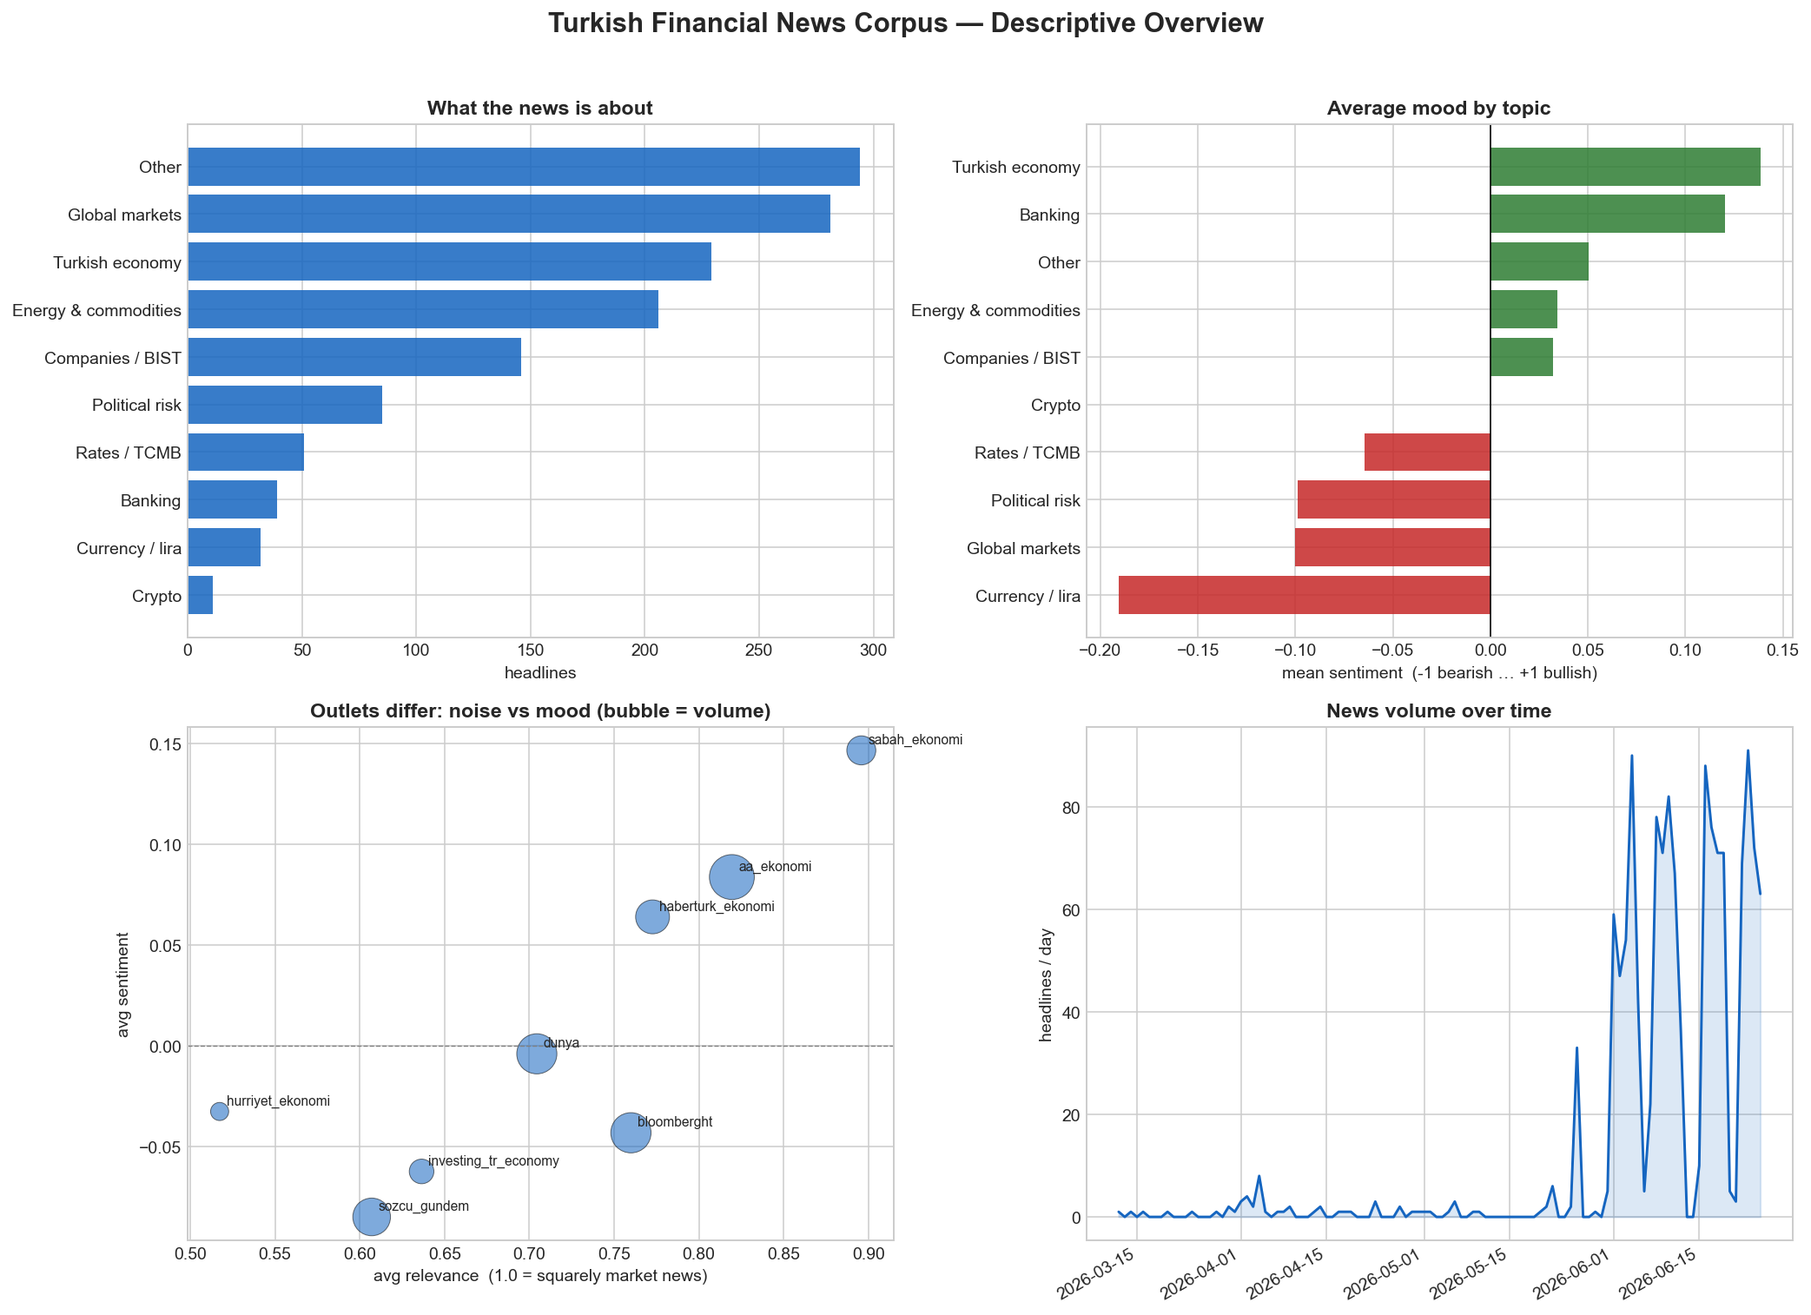
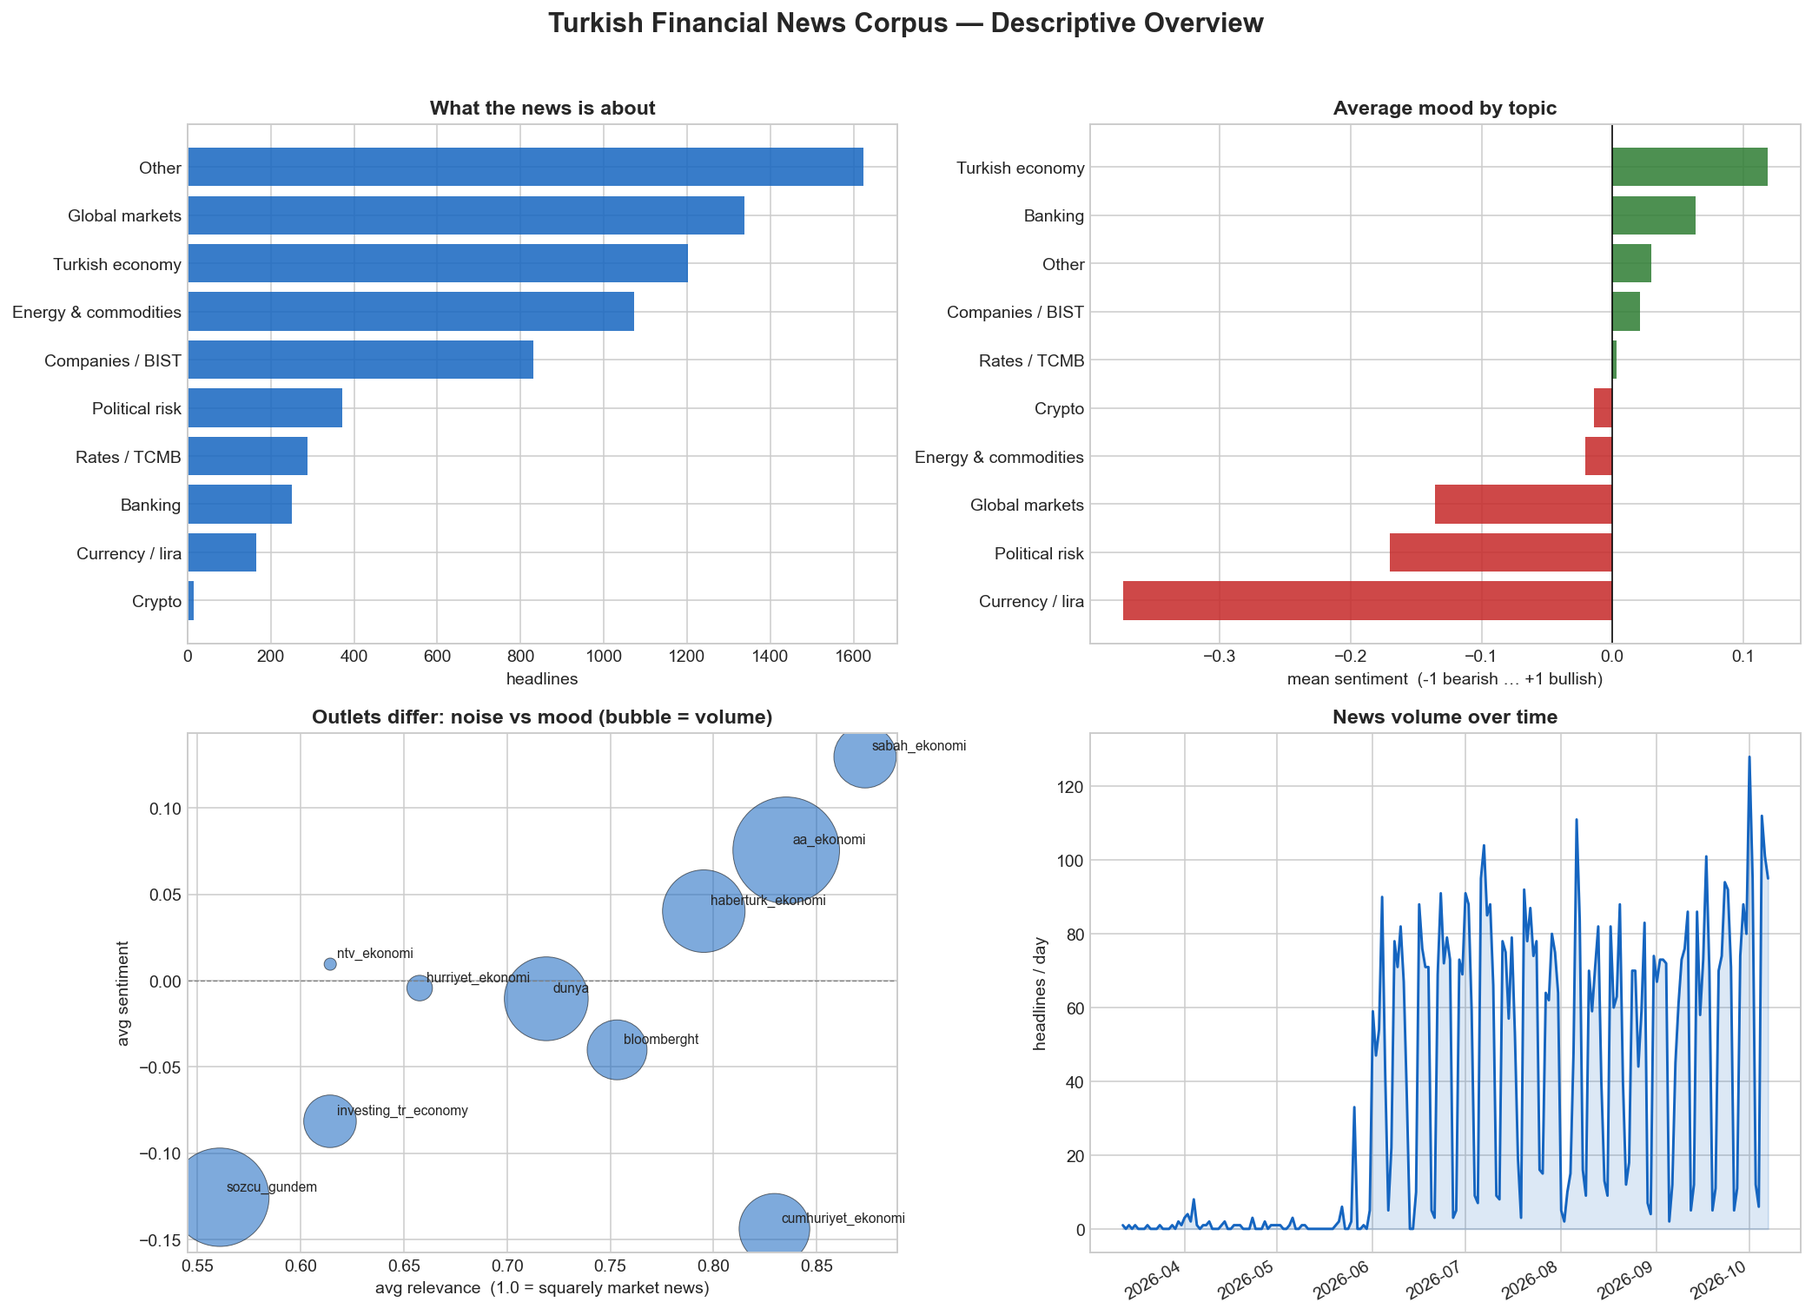
docs: refresh corpus and polarization findings to October 2026
Gap +0.255 (date-cluster CI 0.234-0.274, d=0.81) across two opposition
papers. Rebuild the README figure from the maintained loader with
date-cluster intervals. Withdraw the pro-government-optimism asymmetry
committed on 2026-10-07: on the maintained rows its CI includes zero.

diff --git a/analysis/polarization/figure.py b/analysis/polarization/figure.py
@@ -1,0 +1,136 @@
+"""README figure for the outlet-associated tone difference.
+
+Reads the same rows as the inference report (``load_headlines``: scored,
+non-excluded, one row per outlet per headline), so the figure and the numbers
+quoted beside it cannot drift apart. Error bars resample whole publication
+dates, matching docs/POLARIZATION_METHODS.md; headlines on one date share news
+flow, so a per-headline interval would overstate precision.
+
+Usage:  python -m analysis.polarization.figure [--db PATH] [--out PATH]
+"""
+
+from __future__ import annotations
+
+import argparse
+import sys
+
+import matplotlib
+matplotlib.use("Agg")
+import matplotlib.pyplot as plt
+import numpy as np
+import pandas as pd
+
+from analysis.corpus.report import _CAT_LABEL
+from analysis.polarization.inference import (
+    DEFAULT_OPPOSITION_SOURCES, DEFAULT_PRO_GOVERNMENT_SOURCES, OUTLET_OF_FEED,
+    load_headlines,
+)
+from config import DB_PATH
+
+_OUTLET_LABEL = {
+    "sabah_ekonomi": "Sabah", "aa": "AA", "haberturk_ekonomi": "Haberturk",
+    "dunya": "Dunya", "hurriyet_ekonomi": "Hurriyet", "ntv_ekonomi": "NTV",
+    "bloomberght": "BloombergHT", "investing_tr_economy": "Investing",
+    "cumhuriyet_ekonomi": "Cumhuriyet", "sozcu": "Sozcu",
+}
+_GREEN, _RED, _GREY, _BLUE = "#2E7D32", "#C62828", "#9E9E9E", "#1565C0"
+
+
+def _outlet(feed: str) -> str:
+    return OUTLET_OF_FEED.get(feed, feed)
+
+
+def _date_cluster_ci(frame: pd.DataFrame, n: int = 2000, seed: int = 20260707):
+    """95% interval for a mean, resampling publication dates."""
+
+    by_day = frame.groupby("day")["sentiment"].agg(["sum", "size"])
+    if len(by_day) < 2:
+        return np.nan, np.nan
+    rng = np.random.default_rng(seed)
+    idx = rng.integers(0, len(by_day), size=(n, len(by_day)))
+    means = by_day["sum"].values[idx].sum(axis=1) / by_day["size"].values[idx].sum(axis=1)
+    return tuple(np.percentile(means, [2.5, 97.5]))
+
+
+def build(db_path: str, out: str) -> None:
+    h = load_headlines(db_path)
+    h["day"] = pd.to_datetime(h["date"].astype(str).str[:10])
+    h["outlet"] = h["source"].map(_outlet)
+    pro = {_outlet(s) for s in DEFAULT_PRO_GOVERNMENT_SOURCES}
+    opp = {_outlet(s) for s in DEFAULT_OPPOSITION_SOURCES}
+    h["camp"] = np.select([h["outlet"].isin(pro), h["outlet"].isin(opp)],
+                          ["pro", "opp"], default="other")
+
+    try:
+        plt.style.use("seaborn-v0_8-whitegrid")
+    except OSError:
+        pass
+    fig, ax = plt.subplots(1, 3, figsize=(17, 5.2))
+    first, last = h["day"].min(), h["day"].max()
+    fig.suptitle(
+        "Turkish financial press: outlet-associated tone differences "
+        f"({first:%d %b} - {last:%d %b %Y}, {h['day'].nunique()} dates)",
+        fontsize=14, fontweight="bold",
+    )
+
+    # 1. Outlet gradient with date-cluster intervals.
+    rows = []
+    for outlet, grp in h.groupby("outlet"):
+        if len(grp) >= 30:
+            lo, hi = _date_cluster_ci(grp)
+            rows.append((outlet, grp["sentiment"].mean(), lo, hi, len(grp),
+                         grp["camp"].iloc[0]))
+    g = pd.DataFrame(rows, columns=["outlet", "m", "lo", "hi", "n", "camp"]).sort_values(
+        "m", ascending=False)
+    colors = g["camp"].map({"pro": _GREEN, "opp": _RED, "other": _GREY})
+    ax[0].bar(range(len(g)), g["m"], color=colors, alpha=0.85,
+              yerr=[g["m"] - g["lo"], g["hi"] - g["m"]], capsize=3)
+    ax[0].set_xticks(range(len(g)))
+    ax[0].set_xticklabels([f"{_OUTLET_LABEL.get(o, o)}\nn={n}" for o, n in zip(g["outlet"], g["n"])],
+                          fontsize=8, rotation=40, ha="right")
+    ax[0].axhline(0, color="black", lw=0.8)
+    ax[0].set_ylabel("mean sentiment")
+    ax[0].set_title("Outlet tone (green pro-gov, red opposition; 95% date-cluster CI)",
+                    fontweight="bold", fontsize=10)
+
+    # 2. Where the gap sits, by topic (descriptive; >=20 headlines per camp).
+    topic = []
+    for cat, grp in h[h["camp"] != "other"].groupby("category"):
+        a, b = grp[grp["camp"] == "pro"]["sentiment"], grp[grp["camp"] == "opp"]["sentiment"]
+        if len(a) >= 20 and len(b) >= 20:
+            topic.append((_CAT_LABEL.get(cat, cat), a.mean() - b.mean()))
+    t = pd.DataFrame(topic, columns=["cat", "gap"]).sort_values("gap")
+    ax[1].barh(t["cat"], t["gap"], color="#6A1B9A", alpha=0.8)
+    ax[1].axvline(0, color="black", lw=0.8)
+    ax[1].set_xlabel("pro-gov minus opposition mean sentiment")
+    ax[1].set_title("Gap by topic (>=20 headlines per camp)", fontweight="bold", fontsize=10)
+
+    # 3. Weekly gap (weeks with >=5 headlines in each camp).
+    camps = h[h["camp"] != "other"].copy()
+    camps["week"] = camps["day"].dt.to_period("W").dt.start_time
+    wk = camps.groupby(["week", "camp"])["sentiment"].agg(["mean", "size"]).unstack()
+    wk = wk[(wk[("size", "pro")] >= 5) & (wk[("size", "opp")] >= 5)]
+    gap = wk[("mean", "pro")] - wk[("mean", "opp")]
+    ax[2].plot(gap.index, gap.values, color=_BLUE, marker="o", ms=3, lw=1.5)
+    ax[2].axhline(gap.mean(), color="grey", ls="--", lw=0.8)
+    ax[2].set_ylabel("pro-gov minus opposition")
+    ax[2].set_title(f"Weekly gap (n={len(gap)} weeks)", fontweight="bold", fontsize=10)
+    plt.setp(ax[2].get_xticklabels(), rotation=30, ha="right")
+
+    fig.tight_layout(rect=[0, 0, 1, 0.92])
+    fig.savefig(out, dpi=140, bbox_inches="tight")
+    print(f"Figure -> {out}")
+
+
+def main(argv=None) -> int:
+    parser = argparse.ArgumentParser(description=__doc__.splitlines()[0])
+    parser.add_argument("--db", default=str(DB_PATH))
+    parser.add_argument("--out", default="docs/polarization.png")
+    args = parser.parse_args(argv)
+    sys.stdout.reconfigure(encoding="utf-8", errors="replace")
+    build(args.db, args.out)
+    return 0
+
+
+if __name__ == "__main__":
+    raise SystemExit(main())

diff --git a/polarization_dynamics.py b/polarization_dynamics.py
@@ -25,15 +25,16 @@ import pandas as pd
 from scipy import stats
 
 from config import ECONOMIC_CALENDAR
+from analysis.polarization.inference import load_headlines
 from polarization_analysis import PRO_GOV, OPPOSITION, MARKET
 
 
 def load():
     con = sqlite3.connect("finance_sentiment.db")
-    h = pd.read_sql_query(
-        "SELECT source, published_at AS date, sentiment_score AS s FROM headlines "
-        "WHERE sentiment_score IS NOT NULL AND published_at IS NOT NULL", con)
-    h["date"] = pd.to_datetime(h["date"])
+    # Same rows as the maintained inference report: scored, non-excluded, one
+    # row per outlet per headline (Sozcu's two identical feeds count once).
+    h = load_headlines("finance_sentiment.db").rename(columns={"sentiment": "s"})
+    h["date"] = pd.to_datetime(h["date"].astype(str).str[:10])
     fx = pd.read_sql_query(
         "SELECT date, close FROM market_factors WHERE symbol='USDTRY=X'", con).set_index("date")
     ext = pd.read_sql_query(

diff --git a/docs/polarization_findings.md b/docs/polarization_findings.md
@@ -1,9 +1,66 @@
 # Finding: political slant in Turkish financial-news sentiment
 
+![polarization](polarization.png)
+
+## October 2026 update (current)
+
+*Data: `origin/data` snapshot of 2026-10-07; 3,765 camp headlines over 130
+publication dates (2026-03-12 .. 2026-10-07). Rows come from
+`analysis.polarization.inference.load_headlines`: scored, not excluded by the
+relevance filter, one row per outlet per headline. Figure:
+`python -m analysis.polarization.figure`; numbers:
+`python polarization_analysis.py`.*
+
+The slant has **persisted and widened** since the July snapshot, and now rests
+on two opposition papers rather than one:
+
+| Camp | Outlet | n | Mean sentiment |
+|---|---|---|---|
+| Pro-government / state | Sabah | 536 | +0.13 |
+| | Anadolu Agency | 1,587 | +0.08 |
+| Opposition | Cumhuriyet | 689 | −0.15 |
+| | Sözcü | 953 | −0.18 |
+
+Pro-government minus opposition: **+0.255**, date-cluster 95% CI
+**[+0.234, +0.274]**, Cohen's d = 0.81; with topic and date fixed effects the camp
+coefficient is +0.21. (July: +0.20, d = 0.74, Sözcü only.) Cumhuriyet on its own
+sits well below every non-opposition outlet, so the opposition result is no
+longer one paper's house style.
+
+The topic structure also held. The gap is largest on politically loaded
+domestic topics and smallest on ones Ankara does not control:
+
+| Topic | Gap | n (pro / opp) |
+|---|---|---|
+| Banking | +0.35 | 65 / 96 |
+| Turkish economy | +0.30 | 555 / 235 |
+| Companies / BIST | +0.27 | 301 / 189 |
+| Political risk | +0.22 | 35 / 224 |
+| Rates / TCMB | +0.21 | 90 / 72 |
+| Global markets | +0.15 | 317 / 228 |
+| Other | +0.14 | 419 / 185 |
+| Energy & commodities | +0.12 | 329 / 314 |
+
+Energy and commodities still has the smallest gap, but it is no longer near
+zero (July: +0.04), so "outlets agree about oil" is now "outlets disagree least
+about oil".
+
+**Selection vs framing** is unchanged in spirit: on 224 lexically matched
+cross-camp pairs the mean gap is +0.15, but the median is 0 and only 49% of
+pairs lean pro-government. Those pairs are unverified matches, a sensitivity
+check rather than evidence of framing.
+
+**Measurement correction.** Sözcü's `ekonomi` and `gundem` RSS feeds serve
+identical items. Before 2026-10-08 the loader counted each such headline once
+per feed, so about 480 Sözcü headlines entered the opposition camp twice. The
+loader now counts one row per outlet; the gap moved from +0.264 to +0.255.
+
+*The July snapshot below is kept as originally written, for the record.*
+
+## July 2026 snapshot (historical)
+
 *Generated from `polarization_analysis.py`. Data: ~1,900 scored headlines,
 2026-03 to 2026-07.*
-
-![polarization](polarization.png)
 
 ## The result
 
@@ -51,34 +108,35 @@ evidence the mechanism is political.
 
 ## Deeper: who drives the slant (`polarization_dynamics.py`)
 
-*Updated 2026-10-07: 5,014 scored headlines over 136 publication dates
-(2026-03-12 .. 2026-10-06). Intervals resample whole publication dates and
-resample the baseline with the camps, per
-[POLARIZATION_METHODS.md](POLARIZATION_METHODS.md); the July draft used an iid
-headline bootstrap with a fixed baseline, which overstated precision.*
+*Updated 2026-10-08, same rows as the October update above. Intervals resample
+whole publication dates and resample the baseline together with the camps.*
 
-Using the **market-focused press as a neutral baseline** (Bloomberg HT, Investing;
-mean −0.06), the polarization is **asymmetric**, and not in the obvious direction:
+Taking the **market-focused press as a neutral midpoint** (Bloomberg HT,
+Investing; mean −0.06, n = 880):
 
 | Camp | n | Mean | Deviation from market baseline (95% CI) |
 |---|---|---|---|
-| Pro-government | 2,120 | +0.09 | **+0.15** [+0.12, +0.17] |
-| Opposition | 2,032 | −0.13 | −0.08 [−0.10, −0.05] |
+| Pro-government | 2,123 | +0.09 | +0.15 [+0.12, +0.18] |
+| Opposition | 1,642 | −0.17 | −0.11 [−0.14, −0.08] |
 
-The pro-government press sits about twice as far from the baseline as the
-opposition press (asymmetry +0.068, date-cluster 95% CI [+0.019, +0.118];
-excludes 0, and consistent with July's +0.077 on a quarter of the data). The
-split is driven **more by pro-government optimism than by opposition
-pessimism**. Descriptive and observational: it describes outlet tone, says
-nothing about intent, and depends on the market press being a fair midpoint.
+**Both camps sit clearly away from the market press, and neither side
+measurably dominates.** The pro-government deviation is larger in point terms
+(asymmetry +0.043), but the 95% CI [−0.008, +0.097] includes zero.
+
+*Correction.* A July draft, and a version committed on 2026-10-07, said the
+slant was driven mainly by pro-government optimism (asymmetry +0.068, CI
+excluding zero). That version read the headlines table directly, so it included
+relevance-excluded headlines and lacked the outlet de-duplication. On the
+maintained rows the asymmetry is not distinguishable from zero. The claim is
+withdrawn.
 
 **Stress hypothesis: not supported.** Does the gap widen in weeks the lira
-weakens? Over 18 weeks with enough coverage in both camps, Pearson r = +0.61
-(p = 0.01) looks like a yes, but it rests on two adjacent weeks (24 Aug: smallest
-gap, lira firmer; 31 Aug: large gap, largest depreciation). The rank correlation
-is ρ = +0.08 (p = 0.76), and leave-one-week-out Pearson ranges from +0.32 to
-+0.67. Read as no reliable relationship at this sample size. The public-anxiety
-(Google Trends) leg could not be run: `external_series` holds no `gt_dolar` rows.
+weakens? Over 18 weeks with at least 5 headlines per camp, Pearson r = +0.68
+looks like a yes, but it rests on two adjacent weeks (24 Aug: smallest gap,
+lira firmer; 31 Aug: large gap, largest depreciation). The rank correlation is
+ρ = +0.21 (p = 0.39). No reliable relationship at this sample size. The
+public-anxiety (Google Trends) leg could not run: `external_series` holds no
+`gt_dolar` rows.
 
 ![dynamics](polarization_dynamics.png)
 
@@ -86,6 +144,6 @@ is ρ = +0.08 (p = 0.76), and leave-one-week-out Pearson ranges from +0.32 to
 
 | Limitation | Status |
 |---|---|
-| "Opposition" was a single outlet (Sözcü) | **Being fixed:** Cumhuriyet (a distinct major opposition paper) + Sözcü's economy feed added 2026-07-07; the slant will be re-verified with a broader opposition camp as their history accumulates. |
+| "Opposition" was a single outlet (Sözcü) | **Resolved (October update).** Cumhuriyet now contributes 689 headlines and sits at −0.15 on its own. Sözcü's economy feed turned out to duplicate its gundem feed and adds no independent outlet. |
 | Sentiment is one LLM's measure | **Addressed.** Replicated with an independent model (`replicate_slant.py`): on the same 150+150 headlines, Gemini finds gap **+0.16** vs gpt-5-mini's **+0.20** (both *p* < 1e-7), and the two models agree headline-by-headline (*r* = 0.74). The slant is in the text, not one scorer's artifact. |
 | Framing vs selection (same story spun differently, or different stories covered?) | **Examined — and it complicates the story.** A same-story matcher (`same_story_analysis.py`) found 33 cross-camp pairs about the same event; *within* those pairs the gap shrinks to **+0.08 and is not significant** (p=0.12). So a large share of the overall slant appears to be **selection** (which stories each camp covers) rather than **framing** (spinning the same story). Framing is present on genuine matches (e.g. a Bosphorus transit-fee rise: pro-gov +0.30 vs opposition −0.30) but the crude lexical matcher is noisy; cleanly decomposing selection vs framing needs entity/event linking (migration Phase 6). **The robust claim is the *existence and topic-structure* of the slant, not that it is primarily framing bias.** |

diff --git a/README.md b/README.md
@@ -242,7 +242,7 @@ The corpus supports descriptive analysis (`analyze_corpus.py`). Checked-in findi
 
 ![corpus overview](docs/corpus_overview.png)
 
-- **Currency/lira news skews most bearish** in the documented snapshot, while Turkish-economy news skews most bullish.
+- **Currency/lira news skews most bearish** in the October 2026 snapshot (−0.37), while Turkish-economy news skews most bullish.
 - **Outlets show systematic tone differences.** These are outlet-associated descriptive patterns, not causal estimates of political bias.
 - Emerging-markets, oil, and USD/TRY context series are collected so future work can separate Turkey-specific movement from broad market movement.
 
@@ -250,7 +250,7 @@ The corpus supports descriptive analysis (`analyze_corpus.py`). Checked-in findi
 
 ![media polarization](docs/polarization.png)
 
-The maintained July snapshot shows a standardized outlet-associated difference of **Cohen's d = 0.74**, with dependence-aware date-cluster bootstrap uncertainty for the raw gap of roughly **0.19 to 0.24**. The underlying outlet means are **+0.11** for pro-government/state outlets and **-0.09** for the sampled opposition outlet(s), a descriptive gap of **+0.20**. Headlines share dates, outlets, and stories, so the analysis leads with clustered uncertainty and diagnostics rather than the naive unclustered *p*-value. Same-story comparisons suggest selection contributes substantially to the aggregate difference, while same-event framing is less precisely estimated because verified shared-event coverage is limited. These are historical, observational snapshot results—not a causal political-bias claim. See the [dated findings](docs/polarization_findings.md) and the maintained [dependence-aware methods](docs/POLARIZATION_METHODS.md).
+The October 2026 snapshot (130 publication dates, 3,765 camp headlines) shows a pro-government minus opposition tone gap of **+0.255**, date-cluster bootstrap 95% CI **[0.234, 0.274]**, Cohen's d = **0.81**; it was +0.20 (d = 0.74) in July. Outlet means: Sabah **+0.13**, Anadolu Agency **+0.08**, Cumhuriyet **−0.15**, Sözcü **−0.18**, so the opposition result no longer rests on a single paper. The gap is largest on banking and the Turkish economy and smallest on energy and commodities. Headlines share dates, outlets, and stories, so the analysis leads with clustered uncertainty and diagnostics rather than the naive unclustered *p*-value. Same-story comparisons suggest selection contributes substantially to the aggregate difference, while same-event framing is less precisely estimated because verified shared-event coverage is limited. Measured against the market-focused press, both camps deviate and neither measurably dominates. A gap-widens-under-lira-stress hypothesis was tested and is not supported. These are observational snapshot results, not a causal political-bias claim. See the [dated findings](docs/polarization_findings.md) and the maintained [dependence-aware methods](docs/POLARIZATION_METHODS.md).
 
 ## Run it
 
@@ -300,6 +300,7 @@ artifact:
 
 ```bash
 python -m analysis.polarization.inference --db finance_sentiment.db
+python -m analysis.polarization.figure --db finance_sentiment.db   # docs/polarization.png
 ```
 
 Run the fully offline public demo (no key, model download, private database, or

diff --git a/docs/corpus_findings.md b/docs/corpus_findings.md
@@ -1,16 +1,16 @@
 # News corpus — descriptive findings
 
-> **Dated research snapshot — generated 2026-06-25.** The figures below describe
-> the database used on that date; they are not the current live corpus totals.
+> **Dated research snapshot — generated 2026-10-08** from the `origin/data`
+> snapshot of 2026-10-07. The figures describe that database, not live totals.
 
 Auto-generated by `analyze_corpus.py` (exploratory description, not prediction).
 This descriptive snapshot does not establish causality, calibrated model
 correctness, or return predictability.
 
-- **1,374 scored headlines** span 2026-03-12 to 2026-06-25 (10 sources, 10 topics).
-- Most-covered topic: **Other** (21%); least: Crypto.
-- Most *bearish* topic on average: **Currency / lira** (-0.19); most *bullish*: **Turkish economy** (+0.14).
-- Outlets differ markedly: **hurriyet_ekonomi** is the noisiest (avg relevance 0.52), **sabah_ekonomi** the most on-topic (0.90).
-- Most-bearish outlet: **sozcu_gundem** (-0.08); most-bullish: **sabah_ekonomi** (+0.15).
+- **7,158 scored headlines** span 2026-03-12 to 2026-10-07 (11 sources, 10 topics).
+- Most-covered topic: **Other** (23%); least: Crypto.
+- Most *bearish* topic on average: **Currency / lira** (-0.37); most *bullish*: **Turkish economy** (+0.12).
+- Outlets differ markedly: **sozcu_gundem** is the noisiest (avg relevance 0.56), **sabah_ekonomi** the most on-topic (0.87).
+- Most-bearish outlet: **cumhuriyet_ekonomi** (-0.14); most-bullish: **sabah_ekonomi** (+0.13).
 
 ![corpus overview](corpus_overview.png)
